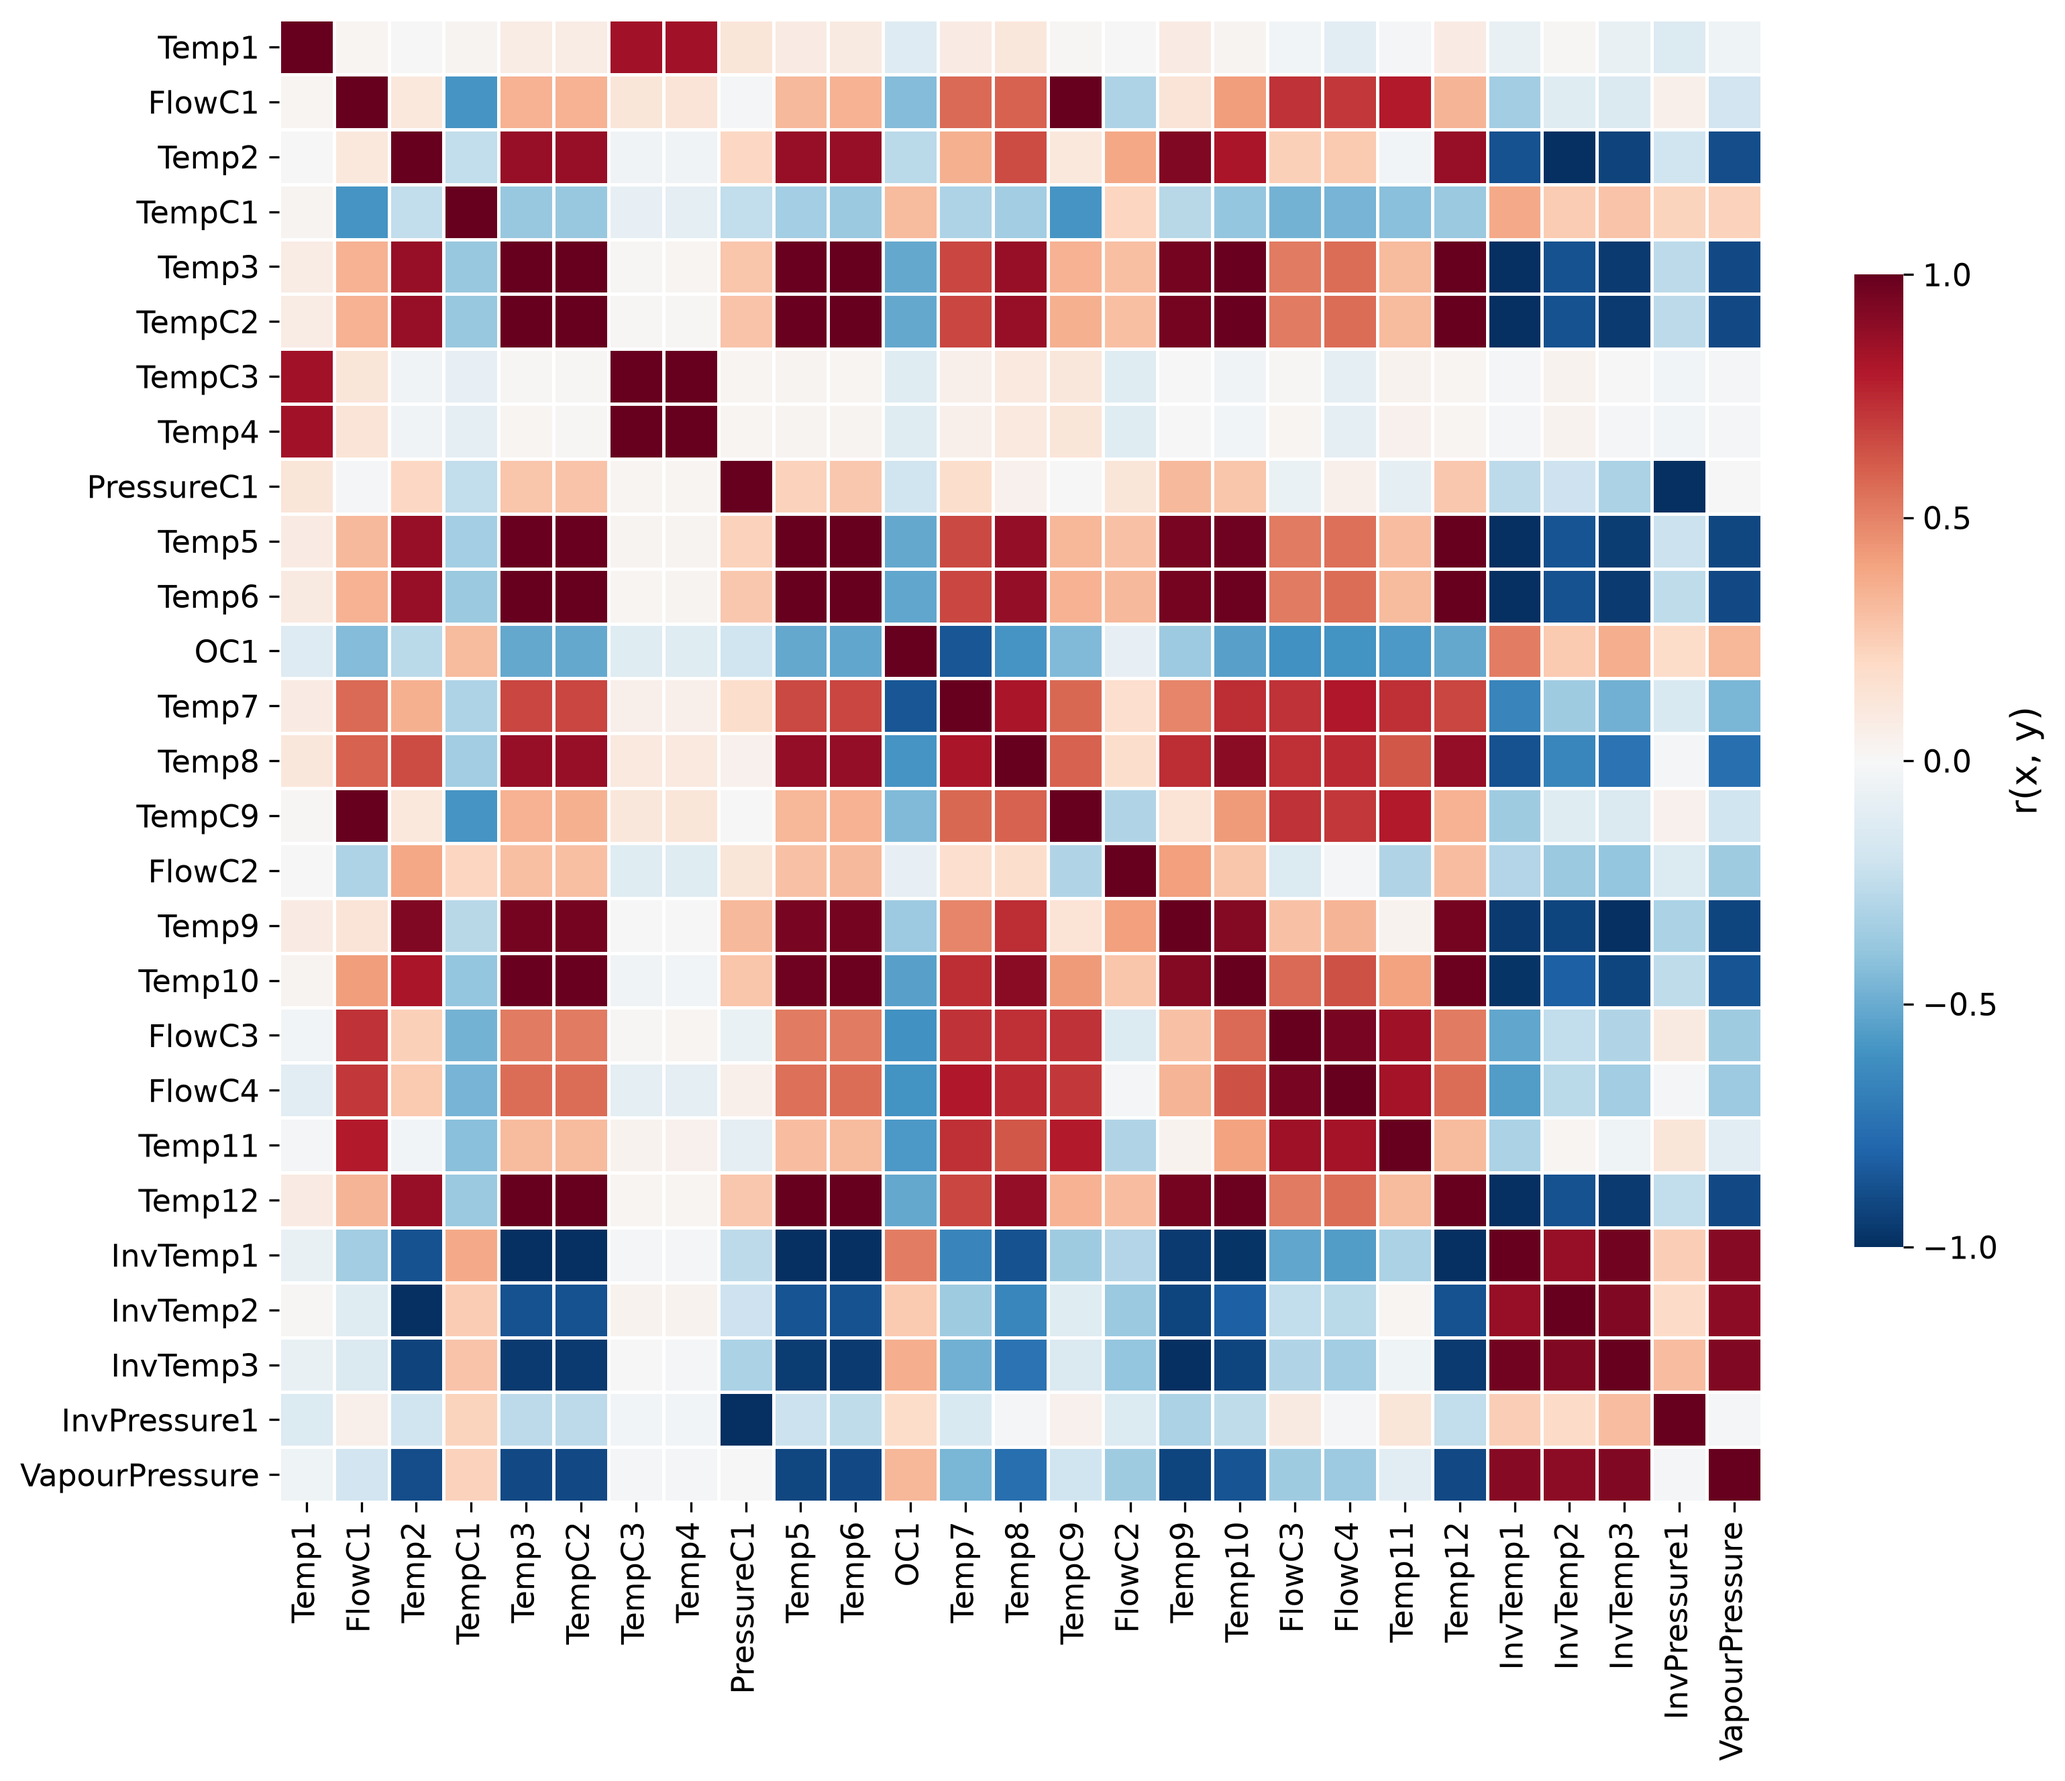
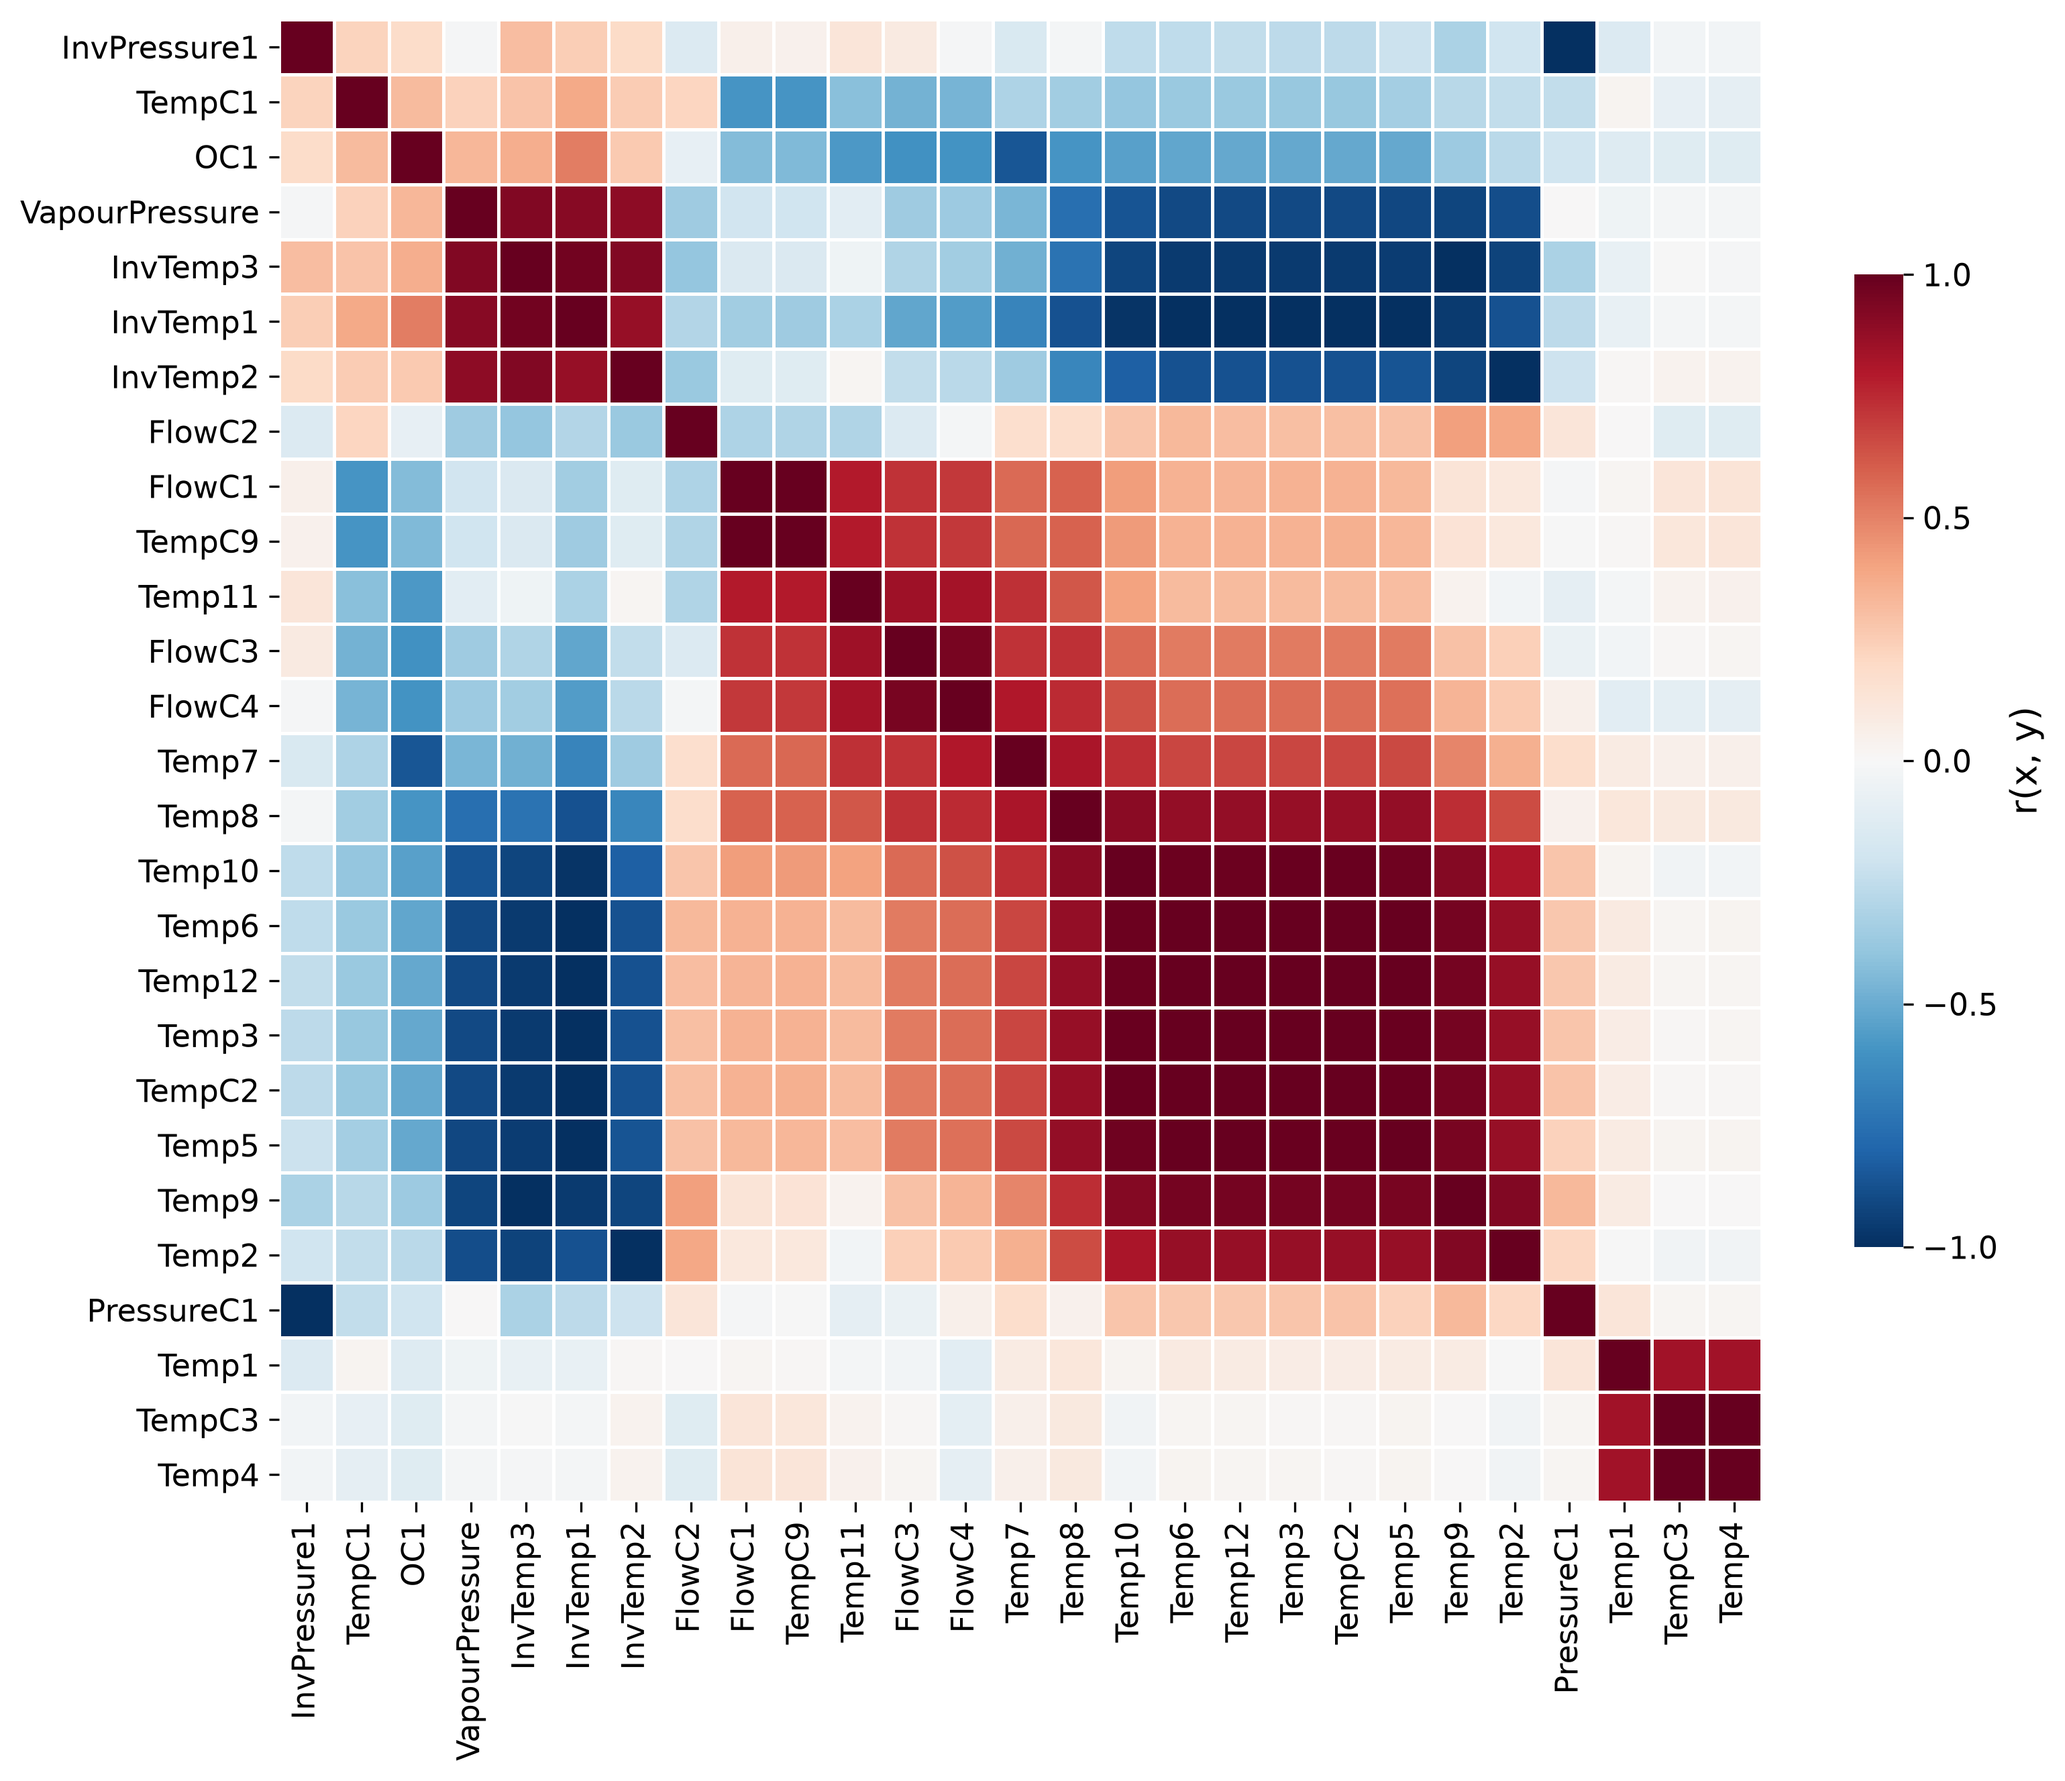
Cluster the distillation heat map's row and column order
Left in the order the file happens to use, the 27 variables put related
columns far apart and the reader has to assemble the pattern by eye.
Reordering by hierarchical clustering gathers them into blocks on the
diagonal: the nine tray temperatures, VapourPressure with the three
InvTemp columns opposite them, the flow measurements, and a small group
of Temp1, TempC3 and Temp4 that correlates with nothing else.

Distance is 1 - r, so a pair moving exactly together is at distance 0 and
a pair moving exactly opposite at distance 2, with average linkage and
optimal leaf ordering. Columns are read off in dendrogram leaf order.
This is the "by cluster" option the D3 Les Miserables co-occurrence
matrix offers alongside ordering by name and by frequency.

The flotation cell heat map keeps the file order: at five variables a
reordering has little to reveal, and the labels are easier to find where
the data set puts them.

Claude-Session: https://claude.ai/code/session_01GWF2PFhpbGaBh9nF6idL7b

diff --git a/least-squares/correlation-visualization-figures.py b/least-squares/correlation-visualization-figures.py
@@ -13,7 +13,10 @@ previously described these displays without showing any of them:
   cells, so the two displays can be read against each other.
 - ``distillation-tower-correlation-heatmap.png``: the same heat map for
   27 variables, the size at which printing the numbers stops working
-  and the colour has to carry the message on its own.
+  and the colour has to carry the message on its own. Rows and columns
+  are reordered by hierarchical clustering, so that correlated
+  variables gather into blocks along the diagonal instead of being
+  scattered through the order the file happens to use.
 - ``distillation-tower-scatterplot-matrix.png``: five of those 27
   columns, chosen to span the range of correlation with the outcome
   variable ``VapourPressure`` (strong negative through to strong
@@ -49,6 +52,8 @@ mpl.use("Agg")
 import matplotlib.pyplot as plt
 import numpy as np
 import pandas as pd
+from scipy.cluster.hierarchy import leaves_list, linkage
+from scipy.spatial.distance import squareform
 
 BLUE = "#0072B2"
 VERMILLION = "#D55E00"
@@ -180,11 +185,34 @@ def scatterplot_matrix(data: pd.DataFrame, outdir: pathlib.Path, name: str,
     print(f"wrote {outdir / name}")
 
 
+def cluster_order(correlation: pd.DataFrame) -> list[str]:
+    """Variable names reordered so that correlated ones sit together.
+
+    Hierarchical clustering on the distance :math:`1 - r`, which is 0 for a
+    pair moving exactly together and 2 for a pair moving exactly opposite,
+    with average linkage. The variables are then read off in the order the
+    dendrogram's leaves fall, which is the ordering the D3 Les Miserables
+    co-occurrence matrix offers under "by cluster". ``optimal_ordering``
+    flips branches to put the most similar pair either side of each join,
+    which the dendrogram is free to do without changing the clustering.
+    """
+    distance = 1 - correlation.to_numpy()
+    np.fill_diagonal(distance, 0.0)
+    # squareform wants the condensed upper triangle; the matrix is symmetric
+    # up to floating-point noise, which checks=False lets through.
+    tree = linkage(squareform(distance, checks=False), method="average",
+                   optimal_ordering=True)
+    return [correlation.columns[i] for i in leaves_list(tree)]
+
+
 def correlation_heatmap(data: pd.DataFrame, outdir: pathlib.Path, name: str,
                         annotate: bool = False, size: float = 9.0,
-                        label_size: int = 12) -> None:
+                        label_size: int = 12, cluster: bool = False) -> None:
     """The correlation matrix as a diverging colour map, red high, blue low."""
     correlation = data.corr()
+    if cluster:
+        order = cluster_order(correlation)
+        correlation = correlation.loc[order, order]
     names = list(correlation.columns)
     n = len(names)
     fig, ax = plt.subplots(figsize=(size * 1.15, size))
@@ -261,9 +289,11 @@ def main(outdir: pathlib.Path) -> None:
     print(outcome.drop("VapourPressure").reindex(
         outcome.drop("VapourPressure").abs().sort_values(ascending=False).index
     ).round(3).to_string())
+    print("clustered column order: "
+          + ", ".join(cluster_order(distillation.corr())))
     correlation_heatmap(distillation, outdir,
                         "distillation-tower-correlation-heatmap.png",
-                        annotate=False, size=9.5, label_size=11)
+                        annotate=False, size=9.5, label_size=11, cluster=True)
     scatterplot_matrix(distillation[DISTILL_SUBSET], outdir,
                        "distillation-tower-scatterplot-matrix.png",
                        marker_size=16, alpha=0.55, filled=True)
